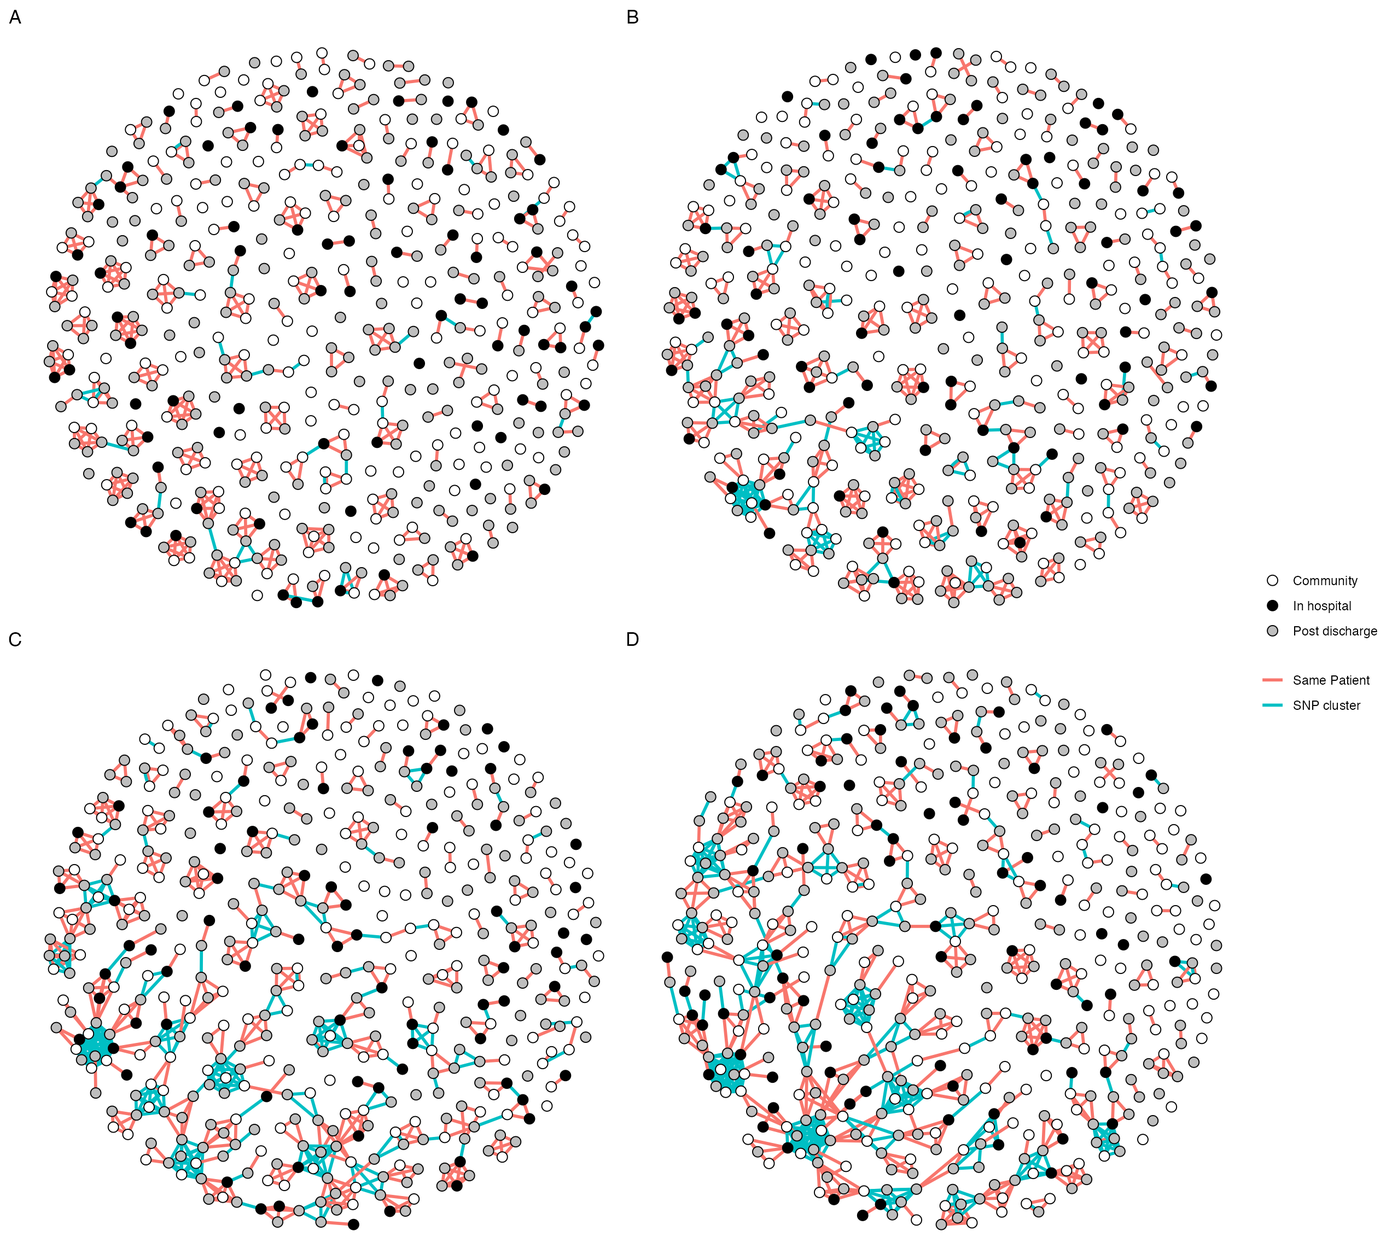
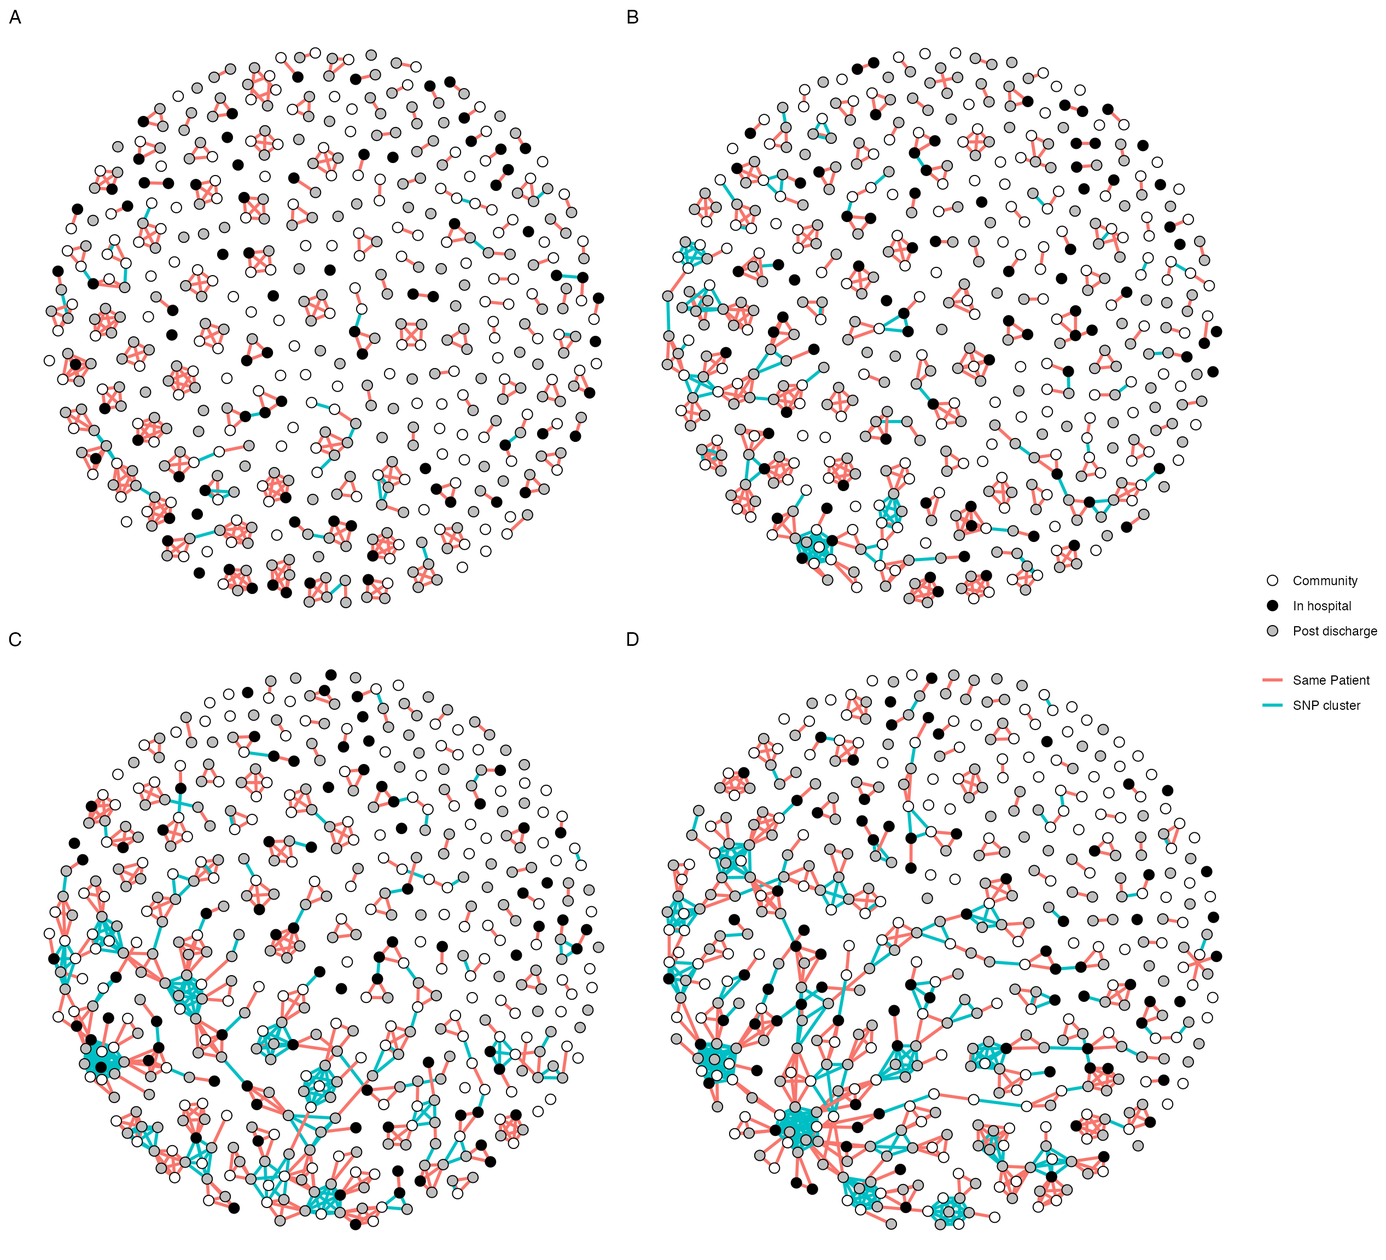
bigger legend snp network plots

diff --git a/docs/articles/analysis.html b/docs/articles/analysis.html
@@ -92,6 +92,10 @@
 
     
     
+<div id="introduction" class="section level2">
+<h2 class="hasAnchor">
+<a href="#introduction" class="anchor"></a>Introduction</h2>
+<p>This document contains reproducing analysis code which generates the tables and figures for the manuscript:</p>
 <p><br></p>
 <p><em>Dynamics of gut mucosal colonisation with extended spectrum beta-lactamase producing Enterobacterales in Malawi</em></p>
 <p><br></p>
@@ -105,7 +109,6 @@
 <li>University of Lancaster, Lanaster, UK</li>
 <li>London School of Tropical Medicine and Hygiene, London, UK</li>
 </ol>
-<p>This document provides the analysis code for the above manuscript.</p>
 <div id="installing-and-accessing-data" class="section level3">
 <h3 class="hasAnchor">
 <a href="#installing-and-accessing-data" class="anchor"></a>Installing and accessing data</h3>
@@ -118,10 +121,6 @@
 <code class="sourceCode R"><span class="fu">devtools</span><span class="fu">::</span><span class="fu"><a href="https://devtools.r-lib.org//reference/remote-reexports.html">install_github</a></span><span class="op">(</span><span class="st">"https://github.com/joelewis101/blantyreESBL"</span>, build_vignettes <span class="op">=</span> <span class="cn">TRUE</span>, dependencies <span class="op">=</span> <span class="cn">TRUE</span> <span class="op">)</span></code></pre></div>
 <p>The <code>dependencies = TRUE</code> option will install all the packages necessary to run the vignettes.</p>
 <p>Alternatively the source code for the vignette is <code>analysis.Rmd</code> in the <code>vignettes/</code> folder of the <a href="https://github.com/joelewis101/blantyreESBL">GitHub</a> repo or the <a href="https://joelewis101.github.io/blantyreESBL/">pkgdown</a> site for this package has a rendered version.</p>
-</div>
-<div id="filling" class="section level3">
-<h3 class="hasAnchor">
-<a href="#filling" class="anchor"></a>Filling</h3>
 </div>
 <div id="setup-load-packages" class="section level3">
 <h3 class="hasAnchor">
@@ -446,7 +445,7 @@ Male
 40/100 (40%)
 </td>
 <td style="text-align:left;">
-0.159
+0.173
 </td>
 <td style="text-align:left;">
 205/425 (48%)
@@ -534,7 +533,7 @@ Current CPT
 7/18 (39%)
 </td>
 <td style="text-align:left;">
-0.011
+0.009
 </td>
 <td style="text-align:left;">
 110/171 (64%)
@@ -554,7 +553,7 @@ Current ART
 18/18 (100%)
 </td>
 <td style="text-align:left;">
-0.082
+0.072
 </td>
 <td style="text-align:left;">
 144/173 (83%)
@@ -574,7 +573,7 @@ ART regimen: EFV/3TC/TDF
 17/18 (94%)
 </td>
 <td style="text-align:left;">
-0.647
+0.652
 </td>
 <td style="text-align:left;">
 135/144 (94%)
@@ -659,7 +658,7 @@ Current TB treatment
 4/100 (4%)
 </td>
 <td style="text-align:left;">
-0.086
+0.089
 </td>
 <td style="text-align:left;">
 14/425 (3%)
@@ -820,7 +819,7 @@ Electricty in house
 58/100 (58%)
 </td>
 <td style="text-align:left;">
-0.042
+0.037
 </td>
 <td style="text-align:left;">
 218/425 (51%)
@@ -840,7 +839,7 @@ Flush toilet<sup>‡</sup>
 1/100 (1%)
 </td>
 <td style="text-align:left;">
-0.110
+0.116
 </td>
 <td style="text-align:left;">
 20/425 (5%)
@@ -860,7 +859,7 @@ Protected water source<sup>§</sup>
 98/100 (98%)
 </td>
 <td style="text-align:left;">
-0.133
+0.134
 </td>
 <td style="text-align:left;">
 406/425 (96%)
@@ -880,7 +879,7 @@ Treat drinking water with chlorine
 0/100 (0%)
 </td>
 <td style="text-align:left;">
-0.005
+0.003
 </td>
 <td style="text-align:left;">
 24/425 (6%)
@@ -4684,11 +4683,15 @@ Within participant correlation of organism, lineage, mobile genetic element (MGE
 
 <span class="va">gr.e</span> <span class="op">&lt;-</span> <span class="fu">graph_from_data_frame</span><span class="op">(</span><span class="va">edges.e</span>, directed <span class="op">=</span> <span class="cn">FALSE</span>, vertices <span class="op">=</span> <span class="va">vertices.e</span><span class="op">)</span>
 
-<span class="fu">ggraph</span><span class="op">(</span><span class="va">gr.e</span>, layout <span class="op">=</span> <span class="st">"fr"</span><span class="op">)</span> <span class="op">+</span> <span class="fu">geom_edge_fan</span><span class="op">(</span><span class="fu">aes</span><span class="op">(</span>color <span class="op">=</span> <span class="va">type</span><span class="op">)</span>, width <span class="op">=</span> <span class="fl">1</span><span class="op">)</span> <span class="op">+</span> 
+<span class="fu">ggraph</span><span class="op">(</span><span class="va">gr.e</span>, layout <span class="op">=</span> <span class="st">"fr"</span><span class="op">)</span> <span class="op">+</span> 
+  <span class="fu">geom_edge_fan</span><span class="op">(</span><span class="fu">aes</span><span class="op">(</span>color <span class="op">=</span> <span class="va">type</span><span class="op">)</span>, width <span class="op">=</span> <span class="fl">1</span><span class="op">)</span> <span class="op">+</span> 
   <span class="fu">geom_node_point</span><span class="op">(</span><span class="fu">aes</span><span class="op">(</span>fill <span class="op">=</span> <span class="va">hosp_assoc</span><span class="op">)</span>, shape <span class="op">=</span> <span class="fl">21</span>, size <span class="op">=</span> <span class="fl">3</span><span class="op">)</span> <span class="op">+</span> 
   <span class="co">#  facet_edges(~ type) + </span>
   <span class="fu">theme_void</span><span class="op">(</span><span class="op">)</span> <span class="op">+</span> <span class="fu">scale_fill_manual</span><span class="op">(</span>values <span class="op">=</span> <span class="fu"><a href="https://rdrr.io/r/base/c.html">c</a></span><span class="op">(</span><span class="st">"white"</span>,<span class="st">"black"</span>,<span class="st">"grey"</span><span class="op">)</span><span class="op">)</span> <span class="op">+</span> 
-  <span class="fu">theme</span><span class="op">(</span>legend.title <span class="op">=</span> <span class="fu">element_blank</span><span class="op">(</span><span class="op">)</span><span class="op">)</span> <span class="op">-&gt;</span> 
+  <span class="fu">theme</span><span class="op">(</span>legend.title <span class="op">=</span> <span class="fu">element_blank</span><span class="op">(</span><span class="op">)</span>, legend.position <span class="op">=</span> <span class="st">"bottom"</span>,
+        legend.text <span class="op">=</span> <span class="fu">element_text</span><span class="op">(</span>size <span class="op">=</span> <span class="fl">16</span><span class="op">)</span><span class="op">)</span> <span class="op">+</span>
+  <span class="fu">guides</span><span class="op">(</span>edge_colour<span class="op">=</span><span class="fu">guide_legend</span><span class="op">(</span>ncol<span class="op">=</span><span class="fl">1</span><span class="op">)</span>,
+         fill<span class="op">=</span><span class="fu">guide_legend</span><span class="op">(</span>ncol<span class="op">=</span><span class="fl">1</span><span class="op">)</span><span class="op">)</span> <span class="op">-&gt;</span> 
   <span class="va">snp_network_plot.esco</span>
 
 <span class="co"># kleb</span>
@@ -4762,19 +4765,30 @@ Within participant correlation of organism, lineage, mobile genetic element (MGE
 
 <span class="va">gr.k</span> <span class="op">&lt;-</span> <span class="fu">graph_from_data_frame</span><span class="op">(</span><span class="va">edges.k</span>, directed <span class="op">=</span> <span class="cn">FALSE</span>, vertices <span class="op">=</span> <span class="va">vertices.k</span><span class="op">)</span>
 
-<span class="fu">ggraph</span><span class="op">(</span><span class="va">gr.k</span>, layout <span class="op">=</span> <span class="st">"fr"</span><span class="op">)</span> <span class="op">+</span> <span class="fu">geom_edge_fan</span><span class="op">(</span><span class="fu">aes</span><span class="op">(</span>color <span class="op">=</span> <span class="va">type</span><span class="op">)</span>, width <span class="op">=</span><span class="fl">1</span><span class="op">)</span> <span class="op">+</span> 
-  <span class="fu">geom_node_point</span><span class="op">(</span><span class="fu">aes</span><span class="op">(</span>fill <span class="op">=</span> <span class="va">hosp_assoc</span><span class="op">)</span>, shape <span class="op">=</span> <span class="fl">21</span>, size <span class="op">=</span> <span class="fl">3</span><span class="op">)</span> <span class="op">+</span> 
-  <span class="co">#  facet_edges(~ type) + </span>
-  <span class="fu">theme_void</span><span class="op">(</span><span class="op">)</span> <span class="op">+</span> <span class="fu">scale_fill_manual</span><span class="op">(</span>values <span class="op">=</span> <span class="fu"><a href="https://rdrr.io/r/base/c.html">c</a></span><span class="op">(</span><span class="st">"white"</span>,<span class="st">"black"</span>,<span class="st">"grey"</span><span class="op">)</span><span class="op">)</span> <span class="op">+</span> 
-  <span class="fu">theme</span><span class="op">(</span>legend.title <span class="op">=</span> <span class="fu">element_blank</span><span class="op">(</span><span class="op">)</span><span class="op">)</span>  <span class="op">-&gt;</span> 
+<span class="fu">ggraph</span><span class="op">(</span><span class="va">gr.k</span>, layout <span class="op">=</span> <span class="st">"fr"</span><span class="op">)</span> <span class="op">+</span> <span class="fu">geom_edge_fan</span><span class="op">(</span><span class="fu">aes</span><span class="op">(</span>color <span class="op">=</span> <span class="va">type</span><span class="op">)</span>, width <span class="op">=</span> <span class="fl">1</span><span class="op">)</span> <span class="op">+</span>
+  <span class="fu">geom_node_point</span><span class="op">(</span><span class="fu">aes</span><span class="op">(</span>fill <span class="op">=</span> <span class="va">hosp_assoc</span><span class="op">)</span>, shape <span class="op">=</span> <span class="fl">21</span>, size <span class="op">=</span> <span class="fl">3</span><span class="op">)</span> <span class="op">+</span>
+  <span class="co">#  facet_edges(~ type) +</span>
+  <span class="fu">theme_void</span><span class="op">(</span><span class="op">)</span> <span class="op">+</span> <span class="fu">scale_fill_manual</span><span class="op">(</span>values <span class="op">=</span> <span class="fu"><a href="https://rdrr.io/r/base/c.html">c</a></span><span class="op">(</span><span class="st">"white"</span>, <span class="st">"black"</span>, <span class="st">"grey"</span><span class="op">)</span><span class="op">)</span> <span class="op">+</span>
+  <span class="fu">theme</span><span class="op">(</span>
+    legend.title <span class="op">=</span> <span class="fu">element_blank</span><span class="op">(</span><span class="op">)</span>,
+    legend.position <span class="op">=</span> <span class="st">"bottom"</span>,
+    legend.text <span class="op">=</span> <span class="fu">element_text</span><span class="op">(</span>size <span class="op">=</span> <span class="fl">16</span><span class="op">)</span>
+  <span class="op">)</span> <span class="op">+</span>
+  <span class="fu">guides</span><span class="op">(</span>edge_colour <span class="op">=</span> <span class="fu">guide_legend</span><span class="op">(</span>ncol <span class="op">=</span> <span class="fl">1</span><span class="op">)</span>,
+         fill <span class="op">=</span> <span class="fu">guide_legend</span><span class="op">(</span>ncol <span class="op">=</span> <span class="fl">1</span><span class="op">)</span><span class="op">)</span>  <span class="op">-&gt;</span>
   <span class="va">snp_network_plot.kleb</span>
 
 
 <span class="op">(</span><span class="va">snp_network_plot.esco</span> <span class="op">+</span> 
   <span class="va">snp_network_plot.kleb</span><span class="op">)</span> <span class="op">+</span> <span class="fu">plot_layout</span><span class="op">(</span>guides <span class="op">=</span> <span class="st">"collect"</span><span class="op">)</span> <span class="op">+</span>  
-  <span class="fu">plot_annotation</span><span class="op">(</span>tag_levels <span class="op">=</span> <span class="st">"A"</span><span class="op">)</span> <span class="op">-&gt;</span> <span class="va">snp_networks</span>
+  <span class="fu">plot_annotation</span><span class="op">(</span>tag_levels <span class="op">=</span> <span class="st">"A"</span><span class="op">)</span> <span class="op">&amp;</span> <span class="fu">theme</span><span class="op">(</span>legend.position <span class="op">=</span> <span class="st">'bottom'</span><span class="op">)</span> <span class="op">-&gt;</span>
+  <span class="va">snp_networks</span>
 <span class="va">snp_networks</span></code></pre></div>
-<p><img src="analysis_files/figure-html/snp-clusts-1.png" width="1267.2"></p>
+<div class="figure">
+<img src="analysis_files/figure-html/snp-clusts-1.png" alt="Network plot of SNP-clusters (i.e. putative transmission clusters) for E. coli (A) and K. pneumoniae (B) showing that putative transmission clusters are not purely hospital associated. Points are samples, coloured by place of isolation (in-hospital [black], community [white], or up to 120 days post-discharge [grey]). Red lines link samples that are within a single participant. Blue lines link samples that are differ by five or fewer SNPs. The plot shows that most samples are not members of a SNP-cluster; that most SNP clusters are made up of samples from different participants (rather than multiple samples from the same participant); and that SNP-clusters are not strongly hospital-associated (i.e. they contain black, white, and grey points)." width="1267.2"><p class="caption">
+Network plot of SNP-clusters (i.e. putative transmission clusters) for E. coli (A) and K. pneumoniae (B) showing that putative transmission clusters are not purely hospital associated. Points are samples, coloured by place of isolation (in-hospital [black], community [white], or up to 120 days post-discharge [grey]). Red lines link samples that are within a single participant. Blue lines link samples that are differ by five or fewer SNPs. The plot shows that most samples are not members of a SNP-cluster; that most SNP clusters are made up of samples from different participants (rather than multiple samples from the same participant); and that SNP-clusters are not strongly hospital-associated (i.e. they contain black, white, and grey points).
+</p>
+</div>
 <div class="sourceCode" id="cb28"><pre class="downlit sourceCode r">
 <code class="sourceCode R">
 
@@ -4782,11 +4796,11 @@ Within participant correlation of organism, lineage, mobile genetic element (MGE
   <span class="fu">ggsave</span><span class="op">(</span><span class="fu">here</span><span class="op">(</span><span class="st">"figures/long-modelling/F4snp_networks.pdf"</span><span class="op">)</span>,
          <span class="va">snp_networks</span>,
          width <span class="op">=</span> <span class="fl">13.2</span>,
-         height <span class="op">=</span> <span class="fl">6</span><span class="op">)</span>
+         height <span class="op">=</span> <span class="fl">7.5</span><span class="op">)</span>
   <span class="fu">ggsave</span><span class="op">(</span><span class="fu">here</span><span class="op">(</span><span class="st">"figures/long-modelling/F4snp_networks.svg"</span><span class="op">)</span>,
          <span class="va">snp_networks</span>,
          width <span class="op">=</span> <span class="fl">13.2</span>, 
-         height <span class="op">=</span> <span class="fl">6</span><span class="op">)</span>
+         height <span class="op">=</span> <span class="fl">7.5</span><span class="op">)</span>
 <span class="op">}</span></code></pre></div>
 </div>
 <div id="misc-snp-cluster-stats" class="section level3">
@@ -5024,8 +5038,8 @@ Within participant correlation of organism, lineage, mobile genetic element (MGE
     by <span class="op">=</span> <span class="fu"><a href="https://rdrr.io/r/base/c.html">c</a></span><span class="op">(</span><span class="st">"lab_id.x"</span>, <span class="st">"lab_id.y"</span><span class="op">)</span>
   <span class="op">)</span> <span class="op">-&gt;</span> <span class="va">samples</span>
 
-<span class="va">samples</span><span class="op">%&gt;%</span>
-  <span class="fu"><a href="https://rdrr.io/r/stats/filter.html">filter</a></span><span class="op">(</span><span class="va">pid.x</span> <span class="op">==</span> <span class="va">pid.y</span><span class="op">)</span><span class="op">-&gt;</span> <span class="va">pairwise_within</span>
+<span class="va">samples</span> <span class="op">%&gt;%</span>
+  <span class="fu"><a href="https://rdrr.io/r/stats/filter.html">filter</a></span><span class="op">(</span><span class="va">pid.x</span> <span class="op">==</span> <span class="va">pid.y</span><span class="op">)</span> <span class="op">-&gt;</span> <span class="va">pairwise_within</span>
 
 
 <span class="va">pairwise_within</span> <span class="op">%&gt;%</span>
@@ -5128,91 +5142,16 @@ Within participant correlation of organism, lineage, mobile genetic element (MGE
 <span class="va">a</span> <span class="op">+</span> <span class="va">b</span> <span class="op">+</span> <span class="fu">plot_annotation</span><span class="op">(</span>tag_levels <span class="op">=</span> <span class="st">"A"</span><span class="op">)</span> <span class="op">+</span> 
 <span class="fu">plot_layout</span><span class="op">(</span>guides <span class="op">=</span> <span class="st">"collect"</span><span class="op">)</span> <span class="op">-&gt;</span> <span class="va">sens_analysis_within_snpdist</span>
 
+<span class="kw">if</span> <span class="op">(</span><span class="va">write_figs</span><span class="op">)</span> <span class="op">{</span>
+
 <span class="fu">ggsave</span><span class="op">(</span><span class="st">"~/Documents/PhD/Manuscripts/2021012_esbl_carriage/manuscript/tables_and_figs/SUPP_FIG_sens_analysis_snpdist_autocorrelation.svg"</span>, <span class="va">sens_analysis_within_snpdist</span>, width <span class="op">=</span> <span class="fl">9</span>, height <span class="op">=</span> <span class="fl">4</span><span class="op">)</span>
-<span class="co">#&gt; `geom_smooth()` using method = 'loess' and formula 'y ~ x'</span>
-<span class="co">#&gt; `geom_smooth()` using method = 'loess' and formula 'y ~ x'</span>
 
 <span class="fu">ggsave</span><span class="op">(</span><span class="st">"~/Documents/PhD/Manuscripts/2021012_esbl_carriage/manuscript/tables_and_figs/SUPP_FIG_sens_analysis_snpdist_autocorrelation.pdf"</span>, <span class="va">sens_analysis_within_snpdist</span>, width <span class="op">=</span> <span class="fl">9</span>, height <span class="op">=</span> <span class="fl">4</span><span class="op">)</span>
-<span class="co">#&gt; `geom_smooth()` using method = 'loess' and formula 'y ~ x'</span>
-<span class="co">#&gt; `geom_smooth()` using method = 'loess' and formula 'y ~ x'</span></code></pre></div>
+
+<span class="op">}</span></code></pre></div>
 <div class="sourceCode" id="cb31"><pre class="downlit sourceCode r">
 <code class="sourceCode R">
-<span class="co"># </span>
-<span class="co"># ## snp network</span>
-<span class="co"># </span>
-<span class="co"># make_cluster_pairwise_comparison_df &lt;- function(pairwise_snp_df,</span>
-<span class="co">#                                                 metadata_df,</span>
-<span class="co">#                                                 cut_tree_vect,</span>
-<span class="co">#                                                 n) {</span>
-<span class="co">#   cluster_samples &lt;- names(cut_tree_vect[cut_tree_vect == n])</span>
-<span class="co">#   pairwise_snp_df &lt;- as.data.frame(pairwise_snp_df)</span>
-<span class="co">#   rownames(pairwise_snp_df) &lt;- pairwise_snp_df$sample</span>
-<span class="co">#   pairwise_snp_df[cluster_samples, c("sample", cluster_samples)] %&gt;%</span>
-<span class="co">#     pivot_longer(-sample) %&gt;%</span>
-<span class="co">#     filter(sample != name) -&gt; d</span>
-<span class="co"># </span>
-<span class="co">#   d[!duplicated(apply(d[1:2], 1, sort), MARGIN = 2), ] -&gt; d</span>
-<span class="co">#   names(d) &lt;- c("sample.x", "sample.y", "snpdist")</span>
-<span class="co">#   d$sample.x &lt;- gsub("#", "_", d$sample.x)</span>
-<span class="co">#   d$sample.y &lt;- gsub("#", "_", d$sample.y)</span>
-<span class="co"># </span>
-<span class="co"># </span>
-<span class="co">#   left_join(</span>
-<span class="co">#     d,</span>
-<span class="co">#     select(</span>
-<span class="co">#       metadata_df,</span>
-<span class="co">#       lane,</span>
-<span class="co">#       pid,</span>
-<span class="co">#       arm,</span>
-<span class="co">#       visit,</span>
-<span class="co">#       enroll_date,</span>
-<span class="co">#       hospoutcomedate,</span>
-<span class="co">#       data_date</span>
-<span class="co">#     ),</span>
-<span class="co">#     by = c("sample.x" = "lane")</span>
-<span class="co">#   ) %&gt;%</span>
-<span class="co">#     left_join(</span>
-<span class="co">#       select(</span>
-<span class="co">#         metadata_df,</span>
-<span class="co">#         lane,</span>
-<span class="co">#         pid,</span>
-<span class="co">#         arm,</span>
-<span class="co">#         visit,</span>
-<span class="co">#         enroll_date,</span>
-<span class="co">#         hospoutcomedate,</span>
-<span class="co">#         data_date</span>
-<span class="co">#       ),</span>
-<span class="co">#       by = c("sample.y" = "lane")</span>
-<span class="co">#     ) -&gt; d</span>
-<span class="co">#   d$pair &lt;- paste0(d$sample.x, "-", d$sample.y)</span>
-<span class="co">#   d$cluster_number &lt;- n</span>
-<span class="co">#   d$cluster_name &lt;- n</span>
-<span class="co">#   d %&gt;%</span>
-<span class="co">#     mutate(type = case_when(pid.x == pid.y ~ "within",</span>
-<span class="co">#                             TRUE ~ "between")) -&gt;   d</span>
-<span class="co">#   return(d)</span>
-<span class="co"># </span>
-<span class="co"># }</span>
-<span class="co"># </span>
-<span class="co"># </span>
-<span class="co"># make_all_clusters_pairwise_comparison_df  &lt;-</span>
-<span class="co">#   function(pairwise_snp_df,</span>
-<span class="co">#            metadata_df,</span>
-<span class="co">#            cut_tree_vect) {</span>
-<span class="co">#     out &lt;- list()</span>
-<span class="co">#     for (i in 1:max(cut_tree_vect)) {</span>
-<span class="co">#       #    print(i)</span>
-<span class="co">#       #  print(i)</span>
-<span class="co">#       make_cluster_pairwise_comparison_df(pairwise_snp_df,</span>
-<span class="co">#                                           metadata_df,</span>
-<span class="co">#                                           cut_tree_vect,</span>
-<span class="co">#                                           i) -&gt; out[[i]]</span>
-<span class="co"># </span>
-<span class="co">#     }</span>
-<span class="co">#     return(do.call(rbind, out))</span>
-<span class="co"># </span>
-<span class="co"># </span>
-<span class="co">#   }</span>
+
 
 <span class="co">#### start plots -------------</span>
 
@@ -5692,11 +5631,14 @@ Pairs plots of posterior of final model showing nonidentifiability of gain and l
 <span class="co">#&gt; [94] gridGraphics_0.5-1   textshaping_0.3.5    RcppParallel_5.1.4  </span>
 <span class="co">#&gt; [97] stats4_4.1.1         munsell_0.5.0        bslib_0.2.5.1</span></code></pre></div>
 </div>
+</div>
   </div>
 
   <div class="col-md-3 hidden-xs hidden-sm" id="pkgdown-sidebar">
 
-      </div>
+        <nav id="toc" data-toggle="toc"><h2 data-toc-skip>Contents</h2>
+    </nav>
+</div>
 
 </div>
 
